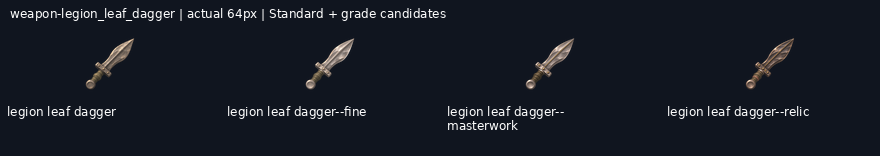
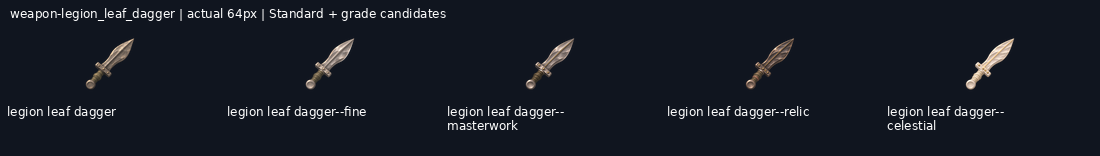
Deliver weapon-legion_leaf_dagger--celestial review candidate

diff --git a/art/_archive/gear/2026-11-20-reset-continuation/HANDOFF.md b/art/_archive/gear/2026-11-20-reset-continuation/HANDOFF.md
@@ -1,13 +1,13 @@
 # Reset continuation progress
 
-Branch: `art/2026-11-20-reset-continuation`. New deliveries: 32/46.
+Branch: `art/2026-11-20-reset-continuation`. New deliveries: 33/46.
 
 Shared coordination: https://github.com/leonpentastorm/Project-Heaven-Cry/issues/3 . Read START-HERE.md before extending this queue.
 
 All new entries remain review-candidate; production_approved:false and implementation_ready:false. Exact-outline review remains pending.
 
-Ready jobs: weapon-legion_leaf_dagger--celestial, weapon-legion_rank_sword--fine.
+Ready jobs: weapon-legion_rank_sword--fine.
 
-Pending jobs: weapon-hellraiser_rotary--celestial, weapon-purifier_flamer--masterwork, weapon-purifier_flamer--relic, weapon-purifier_flamer--celestial, weapon-dock_cutter--masterwork, weapon-dock_cutter--relic, weapon-dock_cutter--celestial, weapon-broadback_sabre--relic, weapon-broadback_sabre--celestial, weapon-legion_leaf_dagger--celestial, weapon-legion_rank_sword--fine, weapon-legion_rank_sword--masterwork, weapon-legion_rank_sword--relic, weapon-legion_rank_sword--celestial.
+Pending jobs: weapon-hellraiser_rotary--celestial, weapon-purifier_flamer--masterwork, weapon-purifier_flamer--relic, weapon-purifier_flamer--celestial, weapon-dock_cutter--masterwork, weapon-dock_cutter--relic, weapon-dock_cutter--celestial, weapon-broadback_sabre--relic, weapon-broadback_sabre--celestial, weapon-legion_rank_sword--fine, weapon-legion_rank_sword--masterwork, weapon-legion_rank_sword--relic, weapon-legion_rank_sword--celestial.
 
 Quota state: null.
